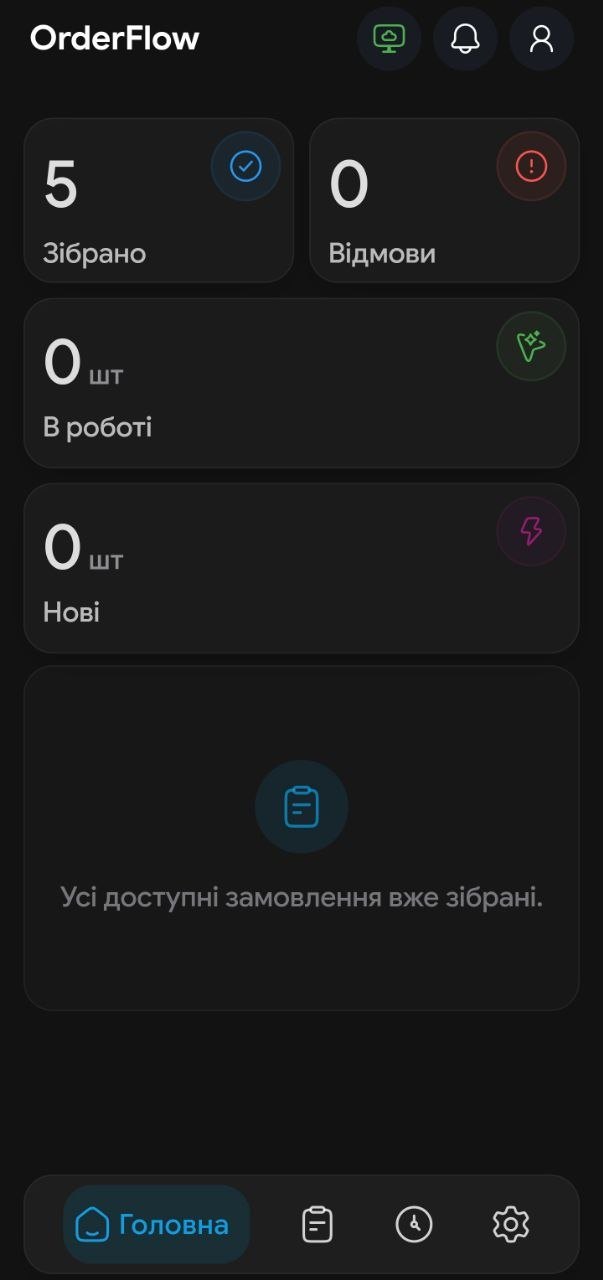
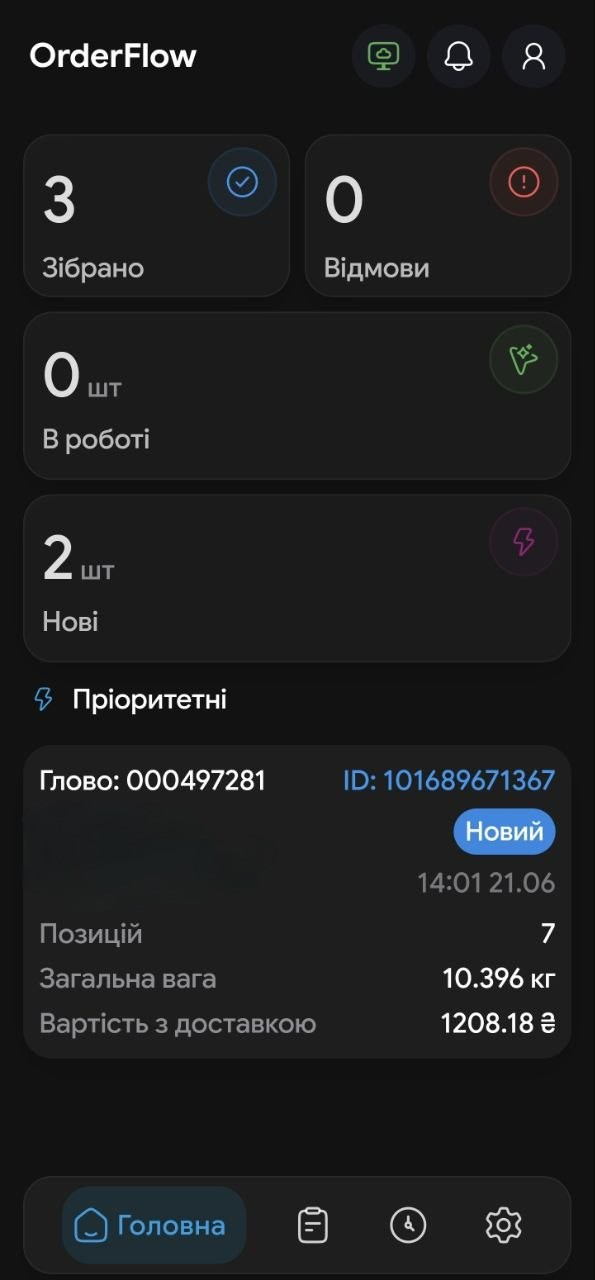
Polish premium interface theater

diff --git a/styles.css b/styles.css
@@ -882,12 +882,33 @@ h3 {
   width: min(100% - (var(--gutter) * 2), var(--container));
   margin-inline: auto;
   border-block: 1px solid var(--line);
+  background: rgba(8, 13, 17, 0.72);
 }
 
 .signal-strip > div {
+  display: grid;
+  align-content: center;
   min-width: 0;
-  padding: 24px 20px;
+  min-height: 112px;
+  padding: 18px 20px;
   border-right: 1px solid var(--line);
+}
+
+.signal-strip.is-pending > div {
+  opacity: 0;
+  clip-path: inset(0 0 18% 0);
+  transform: translateY(8px);
+}
+
+.signal-strip.is-visible > div {
+  opacity: 1;
+  clip-path: inset(0);
+  transform: translateY(0);
+  transition:
+    opacity 320ms var(--ease),
+    clip-path 360ms var(--ease),
+    transform 320ms var(--ease);
+  transition-delay: calc(var(--signal-index, 0) * 50ms);
 }
 
 .signal-strip > div:last-child {
@@ -981,6 +1002,7 @@ h3 {
 }
 
 .interface-theater {
+  --theater-device-width: clamp(235px, 19vw, 248px);
   display: grid;
   grid-template-columns: minmax(420px, 1.15fr) minmax(320px, .85fr);
   gap: clamp(32px, 6vw, 80px);
@@ -990,18 +1012,60 @@ h3 {
 
 .theater-viewer {
   display: grid;
-  grid-template-columns: minmax(240px, 280px) minmax(220px, 1fr);
+  grid-template-columns: minmax(276px, 292px) minmax(220px, 1fr);
   align-items: center;
   gap: 32px;
+  min-width: 0;
 }
 
 .theater-phone {
+  position: relative;
+  isolation: isolate;
+  display: grid;
+  place-items: center;
   width: 100%;
-  max-width: 280px;
-  padding: 0;
-  border: 0;
-  background: transparent;
+  max-width: 292px;
+  padding: 20px;
+  overflow: hidden;
+  border: 1px solid rgba(118, 151, 174, 0.18);
+  border-radius: 26px;
+  background: #0b1116;
   cursor: zoom-in;
+}
+
+.theater-phone::before {
+  content: "";
+  position: absolute;
+  z-index: -1;
+  inset: 0;
+  background:
+    radial-gradient(circle at 50% 42%, rgba(71, 192, 239, 0.08), transparent 58%),
+    #0b1116;
+}
+
+.theater-phone::after {
+  content: "";
+  position: absolute;
+  left: 20px;
+  right: 20px;
+  bottom: 0;
+  height: 2px;
+  background: linear-gradient(90deg, var(--blue), rgba(71, 192, 239, 0.08));
+  transform: scaleX(0.16);
+  transform-origin: left;
+}
+
+.interface-theater.is-refreshing .theater-phone::after {
+  animation: theaterAccent 360ms var(--ease) both;
+}
+
+.theater-phone .phone {
+  width: var(--theater-device-width);
+  max-width: 100%;
+}
+
+.theater-caption {
+  min-width: 0;
 }
 
 .theater-caption span {
@@ -1017,6 +1081,18 @@ h3 {
 
 .theater-caption p {
   margin: 0;
+}
+
+.theater-caption.is-refreshing > * {
+  animation: theaterCaptionReveal 340ms var(--ease) both;
+}
+
+.theater-caption.is-refreshing h3 {
+  animation-delay: 45ms;
+}
+
+.theater-caption.is-refreshing p {
+  animation-delay: 90ms;
 }
 
 .theater-index {
@@ -1060,7 +1136,7 @@ h3 {
 .theater-index button:hover,
 .theater-index button.is-active {
   color: var(--text);
-  background: var(--surface);
+  background: rgba(20, 29, 36, 0.76);
   box-shadow: inset 3px 0 var(--blue);
 }
 
@@ -2119,6 +2195,34 @@ h3 {
   }
 }
 
+@keyframes theaterAccent {
+  0% {
+    transform: scaleX(0.16);
+    opacity: 0.45;
+  }
+  58% {
+    transform: scaleX(1);
+    opacity: 1;
+  }
+  100% {
+    transform: scaleX(0.28);
+    opacity: 0.72;
+  }
+}
+
+@keyframes theaterCaptionReveal {
+  0% {
+    opacity: 0;
+    clip-path: inset(0 0 100% 0);
+    transform: translateY(8px);
+  }
+  100% {
+    opacity: 1;
+    clip-path: inset(0);
+    transform: translateY(0);
+  }
+}
+
 @media (max-width: 1160px) {
   :root {
     --gutter: 32px;
@@ -2149,6 +2253,11 @@ h3 {
     grid-template-columns: repeat(3, 1fr);
   }
 
+  .signal-strip > div {
+    min-height: 102px;
+    padding: 16px 18px;
+  }
+
   .signal-strip > div:nth-child(3) {
     border-right: 0;
   }
@@ -2158,13 +2267,18 @@ h3 {
   }
 
   .interface-theater {
+    --theater-device-width: clamp(220px, 22vw, 230px);
     grid-template-columns: minmax(0, 1.2fr) minmax(270px, .8fr);
     gap: 34px;
   }
 
   .theater-viewer {
-    grid-template-columns: minmax(220px, 260px) 1fr;
-    gap: 24px;
+    grid-template-columns: minmax(260px, 270px) minmax(190px, 1fr);
+    gap: 32px;
+  }
+
+  .theater-phone {
+    max-width: 270px;
   }
 
   .security-grid {
@@ -2494,10 +2608,14 @@ h3 {
   }
 
   .signal-strip > div {
-    min-height: 116px;
-    padding: 20px 16px;
+    min-height: 104px;
+    padding: 16px;
     border-right: 1px solid var(--line);
     border-bottom: 1px solid var(--line);
+  }
+
+  .signal-strip > div:nth-child(3) {
+    border-right: 1px solid var(--line);
   }
 
   .signal-strip > div:nth-child(2n) {
@@ -2908,5 +3026,18 @@ h3 {
   .reveal {
     opacity: 1;
     transform: none;
+  }
+
+  .signal-strip.is-pending > div,
+  .signal-strip.is-visible > div,
+  .theater-caption.is-refreshing > * {
+    opacity: 1;
+    clip-path: none;
+    transform: none;
+  }
+
+  .interface-theater.is-refreshing .theater-phone::after {
+    transform: scaleX(0.28);
+    opacity: 0.72;
   }
 }

diff --git a/script.js b/script.js
@@ -326,6 +326,8 @@ function initGallery() {
   const theaterDescription = theater?.querySelector("[data-theater-description]");
   const theaterIndex = theater?.querySelector("[data-theater-index]");
   const theaterOpen = theater?.querySelector("[data-theater-open]");
+  const theaterCaption = theater?.querySelector(".theater-caption");
+  const reducedMotion = matchMedia("(prefers-reduced-motion: reduce)").matches;
   const legacyDescriptions = [
     "Стан замовлень, швидкий доступ до профілю, сповіщень і налаштувань.",
     "Швидкий вхід за табельним номером і підтвердження робочого профілю.",
@@ -371,6 +373,17 @@ function initGallery() {
     if (theaterTitle) theaterTitle.textContent = card.dataset.caption;
     if (theaterCount) theaterCount.textContent = `${String(current + 1).padStart(2, "0")} / ${String(cards.length).padStart(2, "0")}`;
     if (theaterDescription) theaterDescription.textContent = card.dataset.description || "";
+    if (theater && theaterCaption && !reducedMotion) {
+      theater.classList.remove("is-refreshing");
+      theaterCaption.classList.remove("is-refreshing");
+      void theater.offsetWidth;
+      theater.classList.add("is-refreshing");
+      theaterCaption.classList.add("is-refreshing");
+      window.setTimeout(() => {
+        theater.classList.remove("is-refreshing");
+        theaterCaption.classList.remove("is-refreshing");
+      }, 380);
+    }
   };
 
   const show = (index) => {
@@ -547,12 +560,29 @@ function initCarousels() {
 function initOperationalEffects() {
   const reducedMotion = matchMedia("(prefers-reduced-motion: reduce)").matches;
   const stage = document.querySelector("[data-route-stage]");
+  const signalStrip = document.querySelector(".signal-strip");
   const routeLight = stage?.querySelector(".route-light");
   const syncIndicator = document.querySelector("[data-sync-indicator]");
   const syncLabel = document.querySelector("[data-sync-label]");
   const barcodeZone = document.querySelector("[data-barcode-zone]");
   const screenCards = document.querySelectorAll(".screen-reveal");
   let syncTimer;
+
+  if (signalStrip) {
+    [...signalStrip.children].forEach((item, index) => {
+      item.style.setProperty("--signal-index", String(index));
+    });
+    if (reducedMotion || !("IntersectionObserver" in window)) {
+      signalStrip.classList.add("is-visible");
+    } else {
+      signalStrip.classList.add("is-pending");
+      new IntersectionObserver(([entry], observer) => {
+        if (!entry.isIntersecting) return;
+        signalStrip.classList.add("is-visible");
+        observer.disconnect();
+      }, { threshold: 0.28 }).observe(signalStrip);
+    }
+  }
 
   const updateRoute = () => {
     if (!stage) return;

diff --git a/index.html b/index.html
@@ -15,9 +15,9 @@
   <title>OrderFlow — мобільне робоче місце збиральника</title>
   <link rel="icon" href="assets/logo.png">
   <link rel="preload" href="assets/fonts/GoogleSans-Regular.ttf" as="font" type="font/ttf" crossorigin>
-  <link rel="stylesheet" href="styles.css?v=1782032009">
-  <script src="screens-manifest.js?v=1782032009" defer></script>
-  <script src="script.js?v=1782032009" defer></script>
+  <link rel="stylesheet" href="styles.css?v=1782049310">
+  <script src="screens-manifest.js?v=1782049310" defer></script>
+  <script src="script.js?v=1782049310" defer></script>
 </head>
 <body>
   <a class="skip-link" href="#main">Перейти до основного вмісту</a>
@@ -102,7 +102,7 @@
         </div>
         <div class="phone-wrapper">
           <div class="phone hero-phone">
-            <img src="assets/screenshots/home.jpg" alt="Головний екран OrderFlow" width="596" height="1280" data-hero-screen>
+            <img src="assets/screenshots/home.jpg" alt="Головний екран OrderFlow" width="595" height="1280" data-hero-screen>
             <div class="scan-line" aria-hidden="true"></div>
           </div>
           <div class="stage-tag tag-online" data-sync-indicator aria-live="polite">
@@ -114,12 +114,12 @@
     </section>
 
     <section class="signal-strip" aria-label="Ключові характеристики">
-      <div><strong data-counter="1">1</strong><span>маршрут роботи</span></div>
-      <div><strong data-counter="18">18</strong><span>екранів застосунку</span></div>
-      <div><strong data-counter="3">3</strong><span>мови інтерфейсу</span></div>
-      <div><strong data-counter="2">2</strong><span>режими сканера</span></div>
-      <div><strong>Offline</strong><span>готовність до слабкої мережі</span></div>
-      <div><strong>QR</strong><span>фінальна видача замовлення</span></div>
+      <div><strong data-counter="1">1</strong><span>Маршрут роботи</span></div>
+      <div><strong data-counter="18">18</strong><span>Екранів застосунку</span></div>
+      <div><strong data-counter="3">3</strong><span>Мови інтерфейсу</span></div>
+      <div><strong data-counter="2">2</strong><span>Режими сканера</span></div>
+      <div><strong>Offline</strong><span>Готовність до слабкої мережі</span></div>
+      <div><strong>QR</strong><span>Фінальна видача замовлення</span></div>
     </section>
 
     <section id="features" class="features section-shell section-block">

diff --git a/faq.html b/faq.html
@@ -7,8 +7,8 @@
   <meta name="description" content="Повна довідка OrderFlow: встановлення, замовлення, сканування, заміни, пакування, налаштування та offline-робота.">
   <title>Довідка OrderFlow</title>
   <link rel="icon" href="assets/logo.png">
-  <link rel="stylesheet" href="styles.css?v=1782032009">
-  <script src="script.js?v=1782032009" defer></script>
+  <link rel="stylesheet" href="styles.css?v=1782049310">
+  <script src="script.js?v=1782049310" defer></script>
 </head>
 <body class="legal-page faq-page">
   <div class="page-atmosphere" aria-hidden="true"><span></span><span></span><span></span></div>

diff --git a/privacy.html b/privacy.html
@@ -7,7 +7,7 @@
   <meta name="description" content="Політика конфіденційності мобільного застосунку OrderFlow.">
   <title>Політика конфіденційності — OrderFlow</title>
   <link rel="icon" href="assets/logo.png">
-  <link rel="stylesheet" href="styles.css?v=1782032009">
+  <link rel="stylesheet" href="styles.css?v=1782049310">
 </head>
 <body class="legal-page">
   <div class="page-atmosphere" aria-hidden="true">

diff --git a/screens-manifest.js b/screens-manifest.js
@@ -1,1 +1,1 @@
-window.ORDERFLOW_SCREENS=[{"id":"login","source":"photo_3_2026-06-20_18-57-55.jpg","file":"login.jpg","title":"Вхід у систему","shortTitle":"Вхід","alt":"Вхід до OrderFlow за табельним номером","description":"Швидкий вхід за табельним номером і підтвердження робочого профілю.","width":603,"height":1280},{"id":"store-selection","source":"photo_4_2026-06-21_10-54-26.jpg","file":"store-selection.jpg","title":"Вибір магазину","shortTitle":"Магазин","alt":"Вибір доступного магазину в OrderFlow","description":"Пошук, вибір і збереження робочого магазину перед початком зміни.","width":603,"height":1280},{"id":"home","source":"photo_2026-06-20_19-01-29.jpg","file":"home.jpg","title":"Головний екран","shortTitle":"Головна","alt":"Головний екран зі станом замовлень","description":"Стан замовлень, швидкий доступ до профілю, сповіщень і налаштувань.","width":603,"height":1280,"hero":"new"},{"id":"profile","source":"photo_2_2026-06-20_18-48-22.jpg","file":"profile.jpg","title":"Профіль співробітника","shortTitle":"Профіль","alt":"Профіль співробітника та поточний магазин","description":"Дані співробітника, поточний магазин і керування робочою сесією.","width":601,"height":1280},{"id":"settings","source":"photo_1_2026-06-20_18-48-22.jpg","file":"settings.jpg","title":"Налаштування застосунку","shortTitle":"Налаштування","alt":"Тема, мова, сповіщення, підключення та пам’ять","description":"Тема, мова, сповіщення, підключення, пам’ять і поведінка застосунку.","width":597,"height":1279},{"id":"notifications","source":"photo_1_2026-06-20_18-57-55.jpg","file":"notifications.jpg","title":"Налаштування сповіщень","shortTitle":"Сповіщення","alt":"Налаштування сповіщень, звуку та вібрації","description":"Звук, вібрація, повтори та сценарії сповіщень про нові замовлення.","width":603,"height":1280},{"id":"connection","source":"photo_2_2026-06-20_18-57-55.jpg","file":"connection.jpg","title":"Налаштування з’єднання","shortTitle":"З’єднання","alt":"Резервне та локальне підключення OrderFlow","description":"Основне, резервне й локальне підключення з перевіркою доступності.","width":604,"height":1280},{"id":"history","source":"photo_4_2026-06-20_18-48-22.jpg","file":"history.jpg","title":"Історія замовлень","shortTitle":"Історія","alt":"Список завершених замовлень","description":"Завершені замовлення, статуси та повернення власного замовлення в роботу.","width":596,"height":1280},{"id":"history-filters","source":"photo_3_2026-06-20_18-48-22.jpg","file":"history-filters.jpg","title":"Фільтри історії","shortTitle":"Фільтри","alt":"Фільтри історії за періодом, джерелом і статусом","description":"Пошук історії за періодом, джерелом і станом замовлення.","width":597,"height":1280},{"id":"order-details","source":"photo_10_2026-06-20_18-48-22.jpg","file":"order-details.jpg","title":"Деталі замовлення","shortTitle":"Замовлення","alt":"Деталі замовлення та перелік товарів","description":"Контакти, коментарі, позиції та повний контекст активного замовлення.","width":600,"height":1280},{"id":"picking","source":"photo_9_2026-06-20_18-48-22.jpg","file":"picking.jpg","title":"Процес збирання","shortTitle":"Збирання","alt":"Прогрес збирання і картки товарів","description":"Таймер, прогрес, вкладки та послідовна робота з кожною позицією.","width":596,"height":1280,"hero":"scan"},{"id":"product-actions","source":"photo_8_2026-06-20_18-48-22.jpg","file":"product-actions.jpg","title":"Дії з товаром","shortTitle":"Дії з товаром","alt":"Сканування, заміна, відмова і зміна кількості","description":"Сканування, ручний код, заміна, відмова та зміна кількості товару.","width":598,"height":1280},{"id":"replacement","source":"photo_7_2026-06-20_18-48-22.jpg","file":"replacement.jpg","title":"Заміна товару","shortTitle":"Заміна","alt":"Причина та сканування товару заміни","description":"Вибір причини, перевірка нового товару та погодження заміни.","width":600,"height":1280,"hero":"replacement"},{"id":"refusal","source":"photo_6_2026-06-20_18-48-22.jpg","file":"refusal.jpg","title":"Відмова від товару","shortTitle":"Відмова","alt":"Погодження та причина відмови від товару","description":"Фіксація причини відмови й прозорий результат у замовленні.","width":597,"height":1280},{"id":"packing","source":"photo_5_2026-06-20_18-48-22.jpg","file":"packing.jpg","title":"Пакування","shortTitle":"Пакування","alt":"Вибір пакетів і контейнерів","description":"Пакети, контейнери та фінальна підготовка замовлення до видачі.","width":597,"height":1280,"hero":"packing"},{"id":"order-review","source":"photo_3_2026-06-21_10-54-25.jpg","file":"order-review.jpg","title":"Перевірка замовлення","shortTitle":"Перевірка","alt":"Фінальна перевірка зібраних і замовлених позицій","description":"Порівняння зібраної кількості, замовлення та доданих позицій перед завершенням.","width":603,"height":1280,"hero":"cart"},{"id":"courier-barcode","source":"photo_2_2026-06-21_10-54-25.jpg","file":"courier-barcode.jpg","title":"Штрихкод для кур’єра","shortTitle":"Штрихкод","alt":"Штрихкод агрегатора для передачі замовлення кур’єру","description":"Штрихкод агрегатора для передачі замовлення кур’єру з повноекранним режимом.","width":604,"height":1280,"hero":"barcode"},{"id":"cashier-qr","source":"photo_1_2026-06-21_10-54-25.jpg","file":"cashier-qr.jpg","title":"QR для каси","shortTitle":"QR","alt":"QR-код замовлення для каси","description":"QR-код замовлення для каси з оновленням і підтвердженням завершення.","width":599,"height":1280,"hero":"qr"}];
+window.ORDERFLOW_SCREENS=[{"id":"login","source":"photo_3_2026-06-20_18-57-55.jpg","file":"login.jpg","title":"Вхід у систему","shortTitle":"Вхід","alt":"Вхід до OrderFlow за табельним номером","description":"Швидкий вхід за табельним номером і підтвердження робочого профілю.","width":603,"height":1280},{"id":"store-selection","source":"photo_4_2026-06-21_10-54-26.jpg","file":"store-selection.jpg","title":"Вибір магазину","shortTitle":"Магазин","alt":"Вибір доступного магазину в OrderFlow","description":"Пошук, вибір і збереження робочого магазину перед початком зміни.","width":603,"height":1280},{"id":"home","source":"photo_2026-06-21_14-11-50.jpg","file":"home.jpg","title":"Головний екран","shortTitle":"Головна","alt":"Головний екран з новими та пріоритетними замовленнями","description":"Стан зібраних і нових замовлень, пріоритетна черга та швидкий доступ до робочих розділів.","width":595,"height":1280,"hero":"new"},{"id":"profile","source":"photo_2_2026-06-20_18-48-22.jpg","file":"profile.jpg","title":"Профіль співробітника","shortTitle":"Профіль","alt":"Профіль співробітника та поточний магазин","description":"Дані співробітника, поточний магазин і керування робочою сесією.","width":601,"height":1280},{"id":"settings","source":"photo_1_2026-06-20_18-48-22.jpg","file":"settings.jpg","title":"Налаштування застосунку","shortTitle":"Налаштування","alt":"Тема, мова, сповіщення, підключення та пам’ять","description":"Тема, мова, сповіщення, підключення, пам’ять і поведінка застосунку.","width":597,"height":1279},{"id":"notifications","source":"photo_1_2026-06-20_18-57-55.jpg","file":"notifications.jpg","title":"Налаштування сповіщень","shortTitle":"Сповіщення","alt":"Налаштування сповіщень, звуку та вібрації","description":"Звук, вібрація, повтори та сценарії сповіщень про нові замовлення.","width":603,"height":1280},{"id":"connection","source":"photo_2_2026-06-20_18-57-55.jpg","file":"connection.jpg","title":"Налаштування з’єднання","shortTitle":"З’єднання","alt":"Резервне та локальне підключення OrderFlow","description":"Основне, резервне й локальне підключення з перевіркою доступності.","width":604,"height":1280},{"id":"history","source":"photo_4_2026-06-20_18-48-22.jpg","file":"history.jpg","title":"Історія замовлень","shortTitle":"Історія","alt":"Список завершених замовлень","description":"Завершені замовлення, статуси та повернення власного замовлення в роботу.","width":596,"height":1280},{"id":"history-filters","source":"photo_3_2026-06-20_18-48-22.jpg","file":"history-filters.jpg","title":"Фільтри історії","shortTitle":"Фільтри","alt":"Фільтри історії за періодом, джерелом і статусом","description":"Пошук історії за періодом, джерелом і станом замовлення.","width":597,"height":1280},{"id":"order-details","source":"photo_10_2026-06-20_18-48-22.jpg","file":"order-details.jpg","title":"Деталі замовлення","shortTitle":"Замовлення","alt":"Деталі замовлення та перелік товарів","description":"Контакти, коментарі, позиції та повний контекст активного замовлення.","width":600,"height":1280},{"id":"picking","source":"photo_9_2026-06-20_18-48-22.jpg","file":"picking.jpg","title":"Процес збирання","shortTitle":"Збирання","alt":"Прогрес збирання і картки товарів","description":"Таймер, прогрес, вкладки та послідовна робота з кожною позицією.","width":596,"height":1280,"hero":"scan"},{"id":"product-actions","source":"photo_8_2026-06-20_18-48-22.jpg","file":"product-actions.jpg","title":"Дії з товаром","shortTitle":"Дії з товаром","alt":"Сканування, заміна, відмова і зміна кількості","description":"Сканування, ручний код, заміна, відмова та зміна кількості товару.","width":598,"height":1280},{"id":"replacement","source":"photo_7_2026-06-20_18-48-22.jpg","file":"replacement.jpg","title":"Заміна товару","shortTitle":"Заміна","alt":"Причина та сканування товару заміни","description":"Вибір причини, перевірка нового товару та погодження заміни.","width":600,"height":1280,"hero":"replacement"},{"id":"refusal","source":"photo_6_2026-06-20_18-48-22.jpg","file":"refusal.jpg","title":"Відмова від товару","shortTitle":"Відмова","alt":"Погодження та причина відмови від товару","description":"Фіксація причини відмови й прозорий результат у замовленні.","width":597,"height":1280},{"id":"packing","source":"photo_5_2026-06-20_18-48-22.jpg","file":"packing.jpg","title":"Пакування","shortTitle":"Пакування","alt":"Вибір пакетів і контейнерів","description":"Пакети, контейнери та фінальна підготовка замовлення до видачі.","width":597,"height":1280,"hero":"packing"},{"id":"order-review","source":"photo_3_2026-06-21_10-54-25.jpg","file":"order-review.jpg","title":"Перевірка замовлення","shortTitle":"Перевірка","alt":"Фінальна перевірка зібраних і замовлених позицій","description":"Порівняння зібраної кількості, замовлення та доданих позицій перед завершенням.","width":603,"height":1280,"hero":"cart"},{"id":"courier-barcode","source":"photo_2_2026-06-21_10-54-25.jpg","file":"courier-barcode.jpg","title":"Штрихкод для кур’єра","shortTitle":"Штрихкод","alt":"Штрихкод агрегатора для передачі замовлення кур’єру","description":"Штрихкод агрегатора для передачі замовлення кур’єру з повноекранним режимом.","width":604,"height":1280,"hero":"barcode"},{"id":"cashier-qr","source":"photo_1_2026-06-21_10-54-25.jpg","file":"cashier-qr.jpg","title":"QR для каси","shortTitle":"QR","alt":"QR-код замовлення для каси","description":"QR-код замовлення для каси з оновленням і підтвердженням завершення.","width":599,"height":1280,"hero":"qr"}];